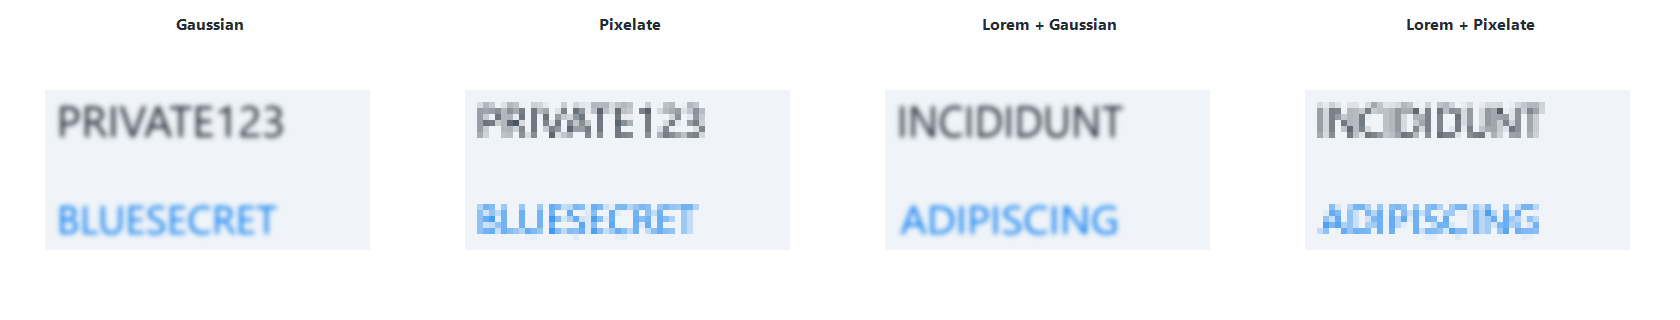
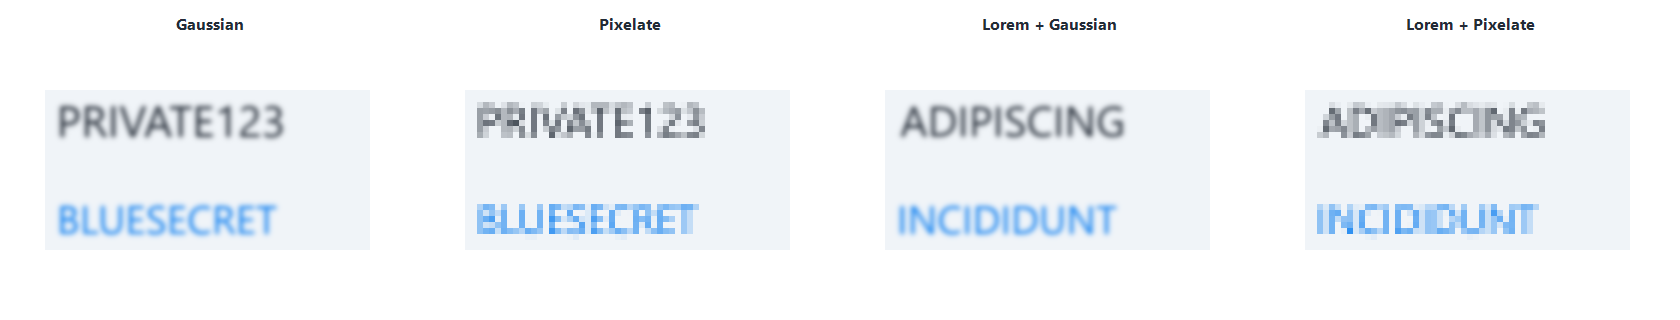
Preserve natural Lorem typeface proportions when fitting OCR bounds

diff --git a/src/redaction.cpp b/src/redaction.cpp
@@ -72,7 +72,7 @@ struct Replacement {
         ARGB color;
     };
     RectF bounds;
-    ARGB background, color;
+    ARGB background;
     std::wstring text;
     std::vector<InkSpan> spans;
 };
@@ -290,7 +290,7 @@ ARGB textColor(Raster& pixels, const RectF& bounds, const Rect& context, ARGB bg
     });
     return furthest;
 }
-Replacement replacement(Raster& pixels, const TextRun& run, const Rect& context, uint32_t& seed) {
+Replacement replacement(Raster& pixels, const TextRun& run, const Rect& context) {
     const auto& word = run.line;
     Rect ink = wordRegion(word.bounds, 0), ring = wordRegion(word.bounds, 4);
     Histogram background;
@@ -308,7 +308,7 @@ Replacement replacement(Raster& pixels, const TextRun& run, const Rect& context,
     });
     ARGB bg = dominant(background, 0xffffffff);
     ARGB fg = textColor(pixels, word.bounds, context, bg);
-    Replacement result{word.bounds, bg, fg, loremText(word.text, seed), {}};
+    Replacement result{word.bounds, bg, word.text, {}};
     float left = word.bounds.X - 2;
     for (size_t n = 0; n < run.words.size(); ++n) {
         const auto& current = run.words[n]->bounds;
@@ -439,7 +439,7 @@ std::shared_ptr<Gdiplus::Bitmap> prepareLoremImage(std::unique_ptr<Gdiplus::Bitm
         for (const auto& run : runs) {
             if (stopped())
                 return {};
-            substitutes.push_back(replacement(pixels, run, context, seed));
+            substitutes.push_back(replacement(pixels, run, context));
         }
     }
     if (!substitutes.empty()) {
@@ -461,19 +461,43 @@ std::shared_ptr<Gdiplus::Bitmap> prepareLoremImage(std::unique_ptr<Gdiplus::Bitm
             if (stopped())
                 return {};
             GraphicsPath glyphs;
-            if (glyphs.AddString(word.text.c_str(), int(word.text.size()), &family,
-                                 FontStyleRegular, 32, PointF(0, 0),
-                                 StringFormat::GenericTypographic()) != Ok)
-                return {};
             RectF ink;
-            glyphs.GetBounds(&ink);
-            if (ink.Width <= 0 || ink.Height <= 0)
+            float scale = 0, best = -1;
+            // Choose similarly long Lorem content that naturally fits the line.
+            // Letter shapes always use one uniform scale, never independent
+            // horizontal/vertical stretching to force an exact bounding box.
+            for (int attempt = 0; attempt < 6; ++attempt) {
+                if (stopped())
+                    return {};
+                auto text = loremText(word.text, seed);
+                GraphicsPath candidate;
+                if (candidate.AddString(text.c_str(), int(text.size()), &family, FontStyleRegular,
+                                        32, PointF(0, 0), StringFormat::GenericTypographic()) != Ok)
+                    return {};
+                RectF box;
+                candidate.GetBounds(&box);
+                if (box.Width <= 0 || box.Height <= 0)
+                    continue;
+                float fit =
+                    std::min(word.bounds.Width / box.Width, word.bounds.Height / box.Height);
+                float coverage =
+                    (box.Width * fit / word.bounds.Width) * (box.Height * fit / word.bounds.Height);
+                if (coverage > best) {
+                    glyphs.Reset();
+                    if (glyphs.AddPath(&candidate, FALSE) != Ok)
+                        return {};
+                    ink = box;
+                    scale = fit;
+                    best = coverage;
+                }
+                if (best >= 0.97f)
+                    break;
+            }
+            if (scale <= 0)
                 continue;
-            REAL sy = word.bounds.Height / ink.Height;
-            // A whole line shares one baseline, size and horizontal scale.
-            // Never fit individual replacement words to separate OCR boxes.
-            REAL sx = word.bounds.Width / ink.Width;
-            Matrix transform(sx, 0, 0, sy, word.bounds.X - ink.X * sx, word.bounds.Y - ink.Y * sy);
+            float top = word.bounds.Y + (word.bounds.Height - ink.Height * scale) / 2;
+            Matrix transform(scale, 0, 0, scale, word.bounds.X - ink.X * scale,
+                             top - ink.Y * scale);
             glyphs.Transform(&transform);
             std::vector<float> gaps;
             if (word.spans.size() > 1) {

diff --git a/docs/development.md b/docs/development.md
@@ -79,7 +79,7 @@ Immediately after OCR, the MTA worker consumes its existing private screenshot c
 
 Background is estimated from a 4-pixel ring around each run. Foreground is sampled per source word, grouped into RGB buckets using a relative contrast threshold, then taken from the strongest glyph-core sample within the winning bucket. This avoids antialiased edges washing out colors and keeps faint colors instead of inventing black or white. Similar foreground colors are merged into contiguous spans. All spans paint the same transformed line path, clipped near the source color positions; transitions favor nearby gaps between glyph contours to avoid splitting a glyph's color. All color estimates precede all erasures and replacement drawing, so sampling never sees generated text.
 
-Cancellation discards the partially prepared snapshot. Completed images are immutable until the next capture. Lorem substitutions use a stable per-capture seed and preserve the source run's character count (up to 512 characters) and capitalization while always changing its content. They match the complete run's ink height and width. This approximates font size/color; font family and weight, complex backgrounds, and missed or inaccurate OCR boxes remain heuristic limits. Undetected text receives the chosen blur or pixelation without substitution. This feature is not a guarantee of irreversible removal of every sensitive pattern.
+Cancellation discards the partially prepared snapshot. Completed images are immutable until the next capture. Lorem substitutions use a stable per-capture seed and preserve the source run's character count (up to 512 characters) and capitalization while always changing its content. Preparation tries up to six replacement phrases and chooses the best natural fit, stopping early at 97% box coverage. Every candidate uses one uniform scale for both axes and is centered vertically within the original run. This preserves ordinary typeface proportions instead of squeezing or stretching glyphs to force an exact OCR rectangle. The text may leave a small margin within that rectangle. This approximates font size/color; font family and weight, complex backgrounds, and missed or inaccurate OCR boxes remain heuristic limits. Undetected text receives the chosen blur or pixelation without substitution. This feature is not a guarantee of irreversible removal of every sensitive pattern.
 
 `tests/lorem_lines.inc` checks that separately reported words with different ink heights produce exactly the same replacement as a complete-line OCR box, including shuffled fragment order and separate columns. It also runs real Windows OCR on a multiline fixture and renders both Lorem effects:
 
@@ -88,6 +88,8 @@ Cancellation discards the partially prepared snapshot. Completed images are immu
 `tests/lorem_colors.inc` checks blue lines, inline blue links amid dark text, very faint blue, white on blue, both filters, immutable images, and real Windows OCR on colored lettering:
 
 ![Lorem retains original lettering colors](assets/lorem-colors-comparison.png)
+
+`tests/lorem_typography.inc` checks deliberately wide and tall OCR rectangles against reference glyphs drawn directly at ordinary font sizes. The reference uses translation only after choosing a font size, so independent horizontal/vertical stretching cannot pass.
 
 Ordinary modes read the original image; Lorem modes sample the prepared image and apply only the selected regional effect. No text generation or color estimation occurs while editing rectangles. Partial glyph selections simply crop fixed prepared pixels, and only the chosen rectangle is composed into the original screenshot. Earlier annotations still participate in effects; earlier redaction items are skipped when composing a new Lorem patch so they cannot reintroduce original screenshot text. The worker snapshot is reused rather than creating another full-size copy, at the cost of retaining one full-desktop bitmap for the session. Original words intersecting any redaction are excluded from OCR highlights and original-text copying. Lorem controls require completed OCR; if a Lorem effect cannot be prepared, an opaque cover is exported instead of silently revealing or merely blurring the original.
 

diff --git a/README.md b/README.md
@@ -6,7 +6,7 @@ Captura is a tiny, portable Windows app for screenshots you can explain at a gla
 
 > **This branch previews text selection and redaction.** Press **O** to copy recognized text, or **B** to hide a rectangular area. Choose Gaussian, Pixelate, Lorem + Gaussian, or Lorem + Pixelate. Lorem modes replace the detected text before applying the effect, using a similar size and color. Move the slider right for a stronger effect. These experiments are local and have not been published as a stable release.
 
-Adjacent words are replaced as complete Lorem lines, with consistent lettering and alignment, preserving original colors such as blue links within a line. Lorem text is prepared once for each capture and stays fixed while you move or resize your rectangles. Both Lorem modes share that same prepared image; only the selected area appears changed in your screenshot.
+Adjacent words are replaced as complete Lorem lines, with natural letter shapes and consistent alignment, preserving original colors such as blue links within a line. Lorem text is prepared once for each capture and stays fixed while you move or resize your rectangles. Both Lorem modes share that same prepared image; only the selected area appears changed in your screenshot.
 
 [**Download for Windows x64 →**](https://github.com/victor141516/Captura/releases/latest)
 

diff --git a/CHANGELOG.md b/CHANGELOG.md
@@ -1,5 +1,11 @@
 # Changelog
 
+## 1.18.6 — Redaction preview
+
+- Keep normal Lorem letter proportions instead of stretching width and height independently to fit the OCR rectangle.
+- Choose from similarly long replacement phrases that naturally fit the line, with a uniform font scale and vertical centering. Exact bounding-box coverage no longer overrides letter shape.
+- Preserve whole-line alignment, original color spans, stable one-time preparation, and full-resolution effects.
+
 ## 1.18.5 — Redaction preview
 
 - Preserve original text colors within complete Lorem lines, including blue links surrounded by dark text, in both Lorem effects.
